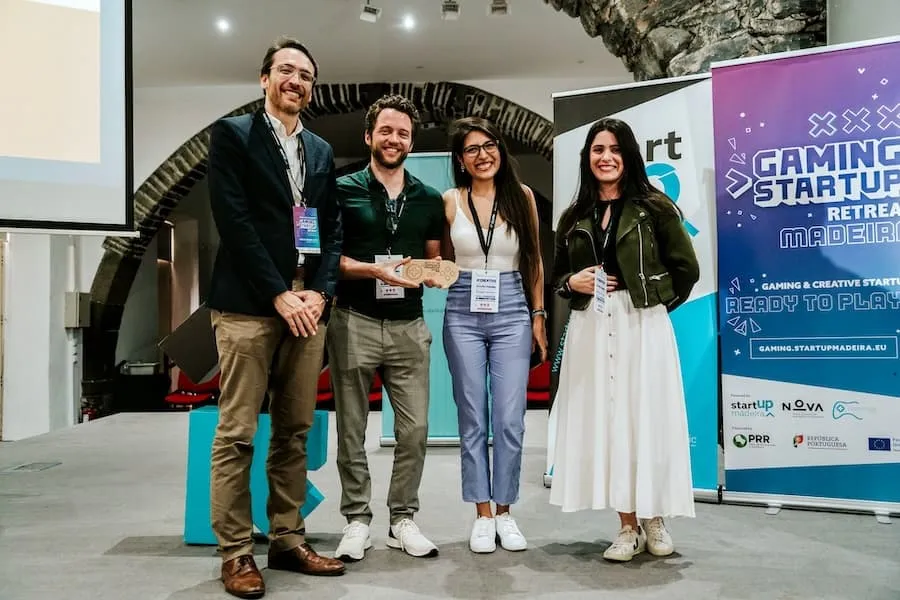
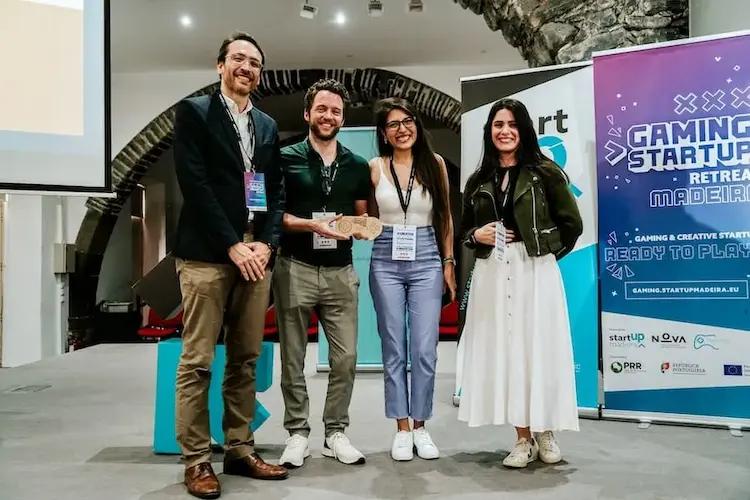
feat: Improved image sizes and project descriptions

diff --git a/src/data/projects.js b/src/data/projects.js
@@ -3,7 +3,7 @@ export const projects = [
     name: 'CloudTutor.app',
     role: 'Founder',
     year: 2025,
-    url: 'https://cloudtutor.app',
+    url: 'https://cloudstacktutor.web.app/',
     shortDescription: 'A hands-on simulator for mastering Google Cloud architectures.',
     description: 'I have spent over a decade building production systems on Google Cloud, mostly learning on the job and only ever touching a fraction of the platform. While preparing for the Cloud Engineer certification, I realized how hard it is to truly remember dozens of services or understand when I would use them and how they fit together in real scenarios. So I built CloudTutor, an interactive learning simulator that explains the most widely used Google Cloud services and challenges you to design common architectures step by step.',
     techStack: ['JS', 'VueJs', 'VueFlow', 'Tailwind', 'DaisyUI', 'Firebase'],
@@ -33,7 +33,7 @@ export const projects = [
     year: 2024,
     url: 'https://upit.com',
     shortDescription: 'Building a conversational AI game-creation platform.',
-    description: 'I joined the UpIt founding team to help build a platform where anyone can create games directly in the browser using natural conversation. The system translates user intent into actual games, including code, logic, sound effects, music, and graphics, all powered by generative AI, agents and retrieval. Working closely with the founder and CTO of FRVR, I helped shape the early architecture, roadmap and real-time editor that makes game creation possible.',
+    description: 'I joined the UpIt (FRVR) founding team to help build a platform where anyone can create games directly in the browser using natural conversation. The system translates user intent into actual games, including code, logic, sound effects, music, and graphics, all powered by generative AI, agents and retrieval. Working closely with the founder and CTO of FRVR, I helped shape the early architecture, roadmap and real-time editor that makes game creation possible.',
     techStack: ['JS', 'SvelteKit', 'NodeJs', 'WebSockets', 'MongoDB', 'AI', 'RAG', 'Agents'],
     images: [
       '/assets/projects/upit.webp'

diff --git a/src/components/TimelineSection.vue b/src/components/TimelineSection.vue
@@ -124,11 +124,6 @@ const timelineItems = [
     description: 'So far I have mostly worked for early-stage startups and have been part of the journey of many companies. It fits me as I am a curious person and love to learn new things when wearing many hats.'
   },
   {
-    time: 'Fun fact',
-    title: 'Relocations',
-    description: 'I have relocated over 35 times in my life. Mostly within the same cities, but also to other countries. That may explain why I don\'t own a lot of stuff or that I may not necessarily need a gym subscription.'
-  },
-  {
     time: '2015',
     title: 'AirConsole - Zurich 🇨🇭',
     image: '/assets/timeline/airconsole.webp',
@@ -158,7 +153,7 @@ const timelineItems = [
   },
   {
     time: '2023',
-    title: 'Dibulo',
+    title: 'Dibulo - Founder',
     image: '/assets/timeline/dibulo.webp',
     imageAlt: 'Dibulo',
     description: 'Wearing many hats, helped me to found my own company. In 2023 I went to a 6-week accelerator in Madeira to validate an idea: Dibulo - an interactive coloring session for kids. We launched shortly after and our coloring books became best-sellers on Amazon.nl.'
